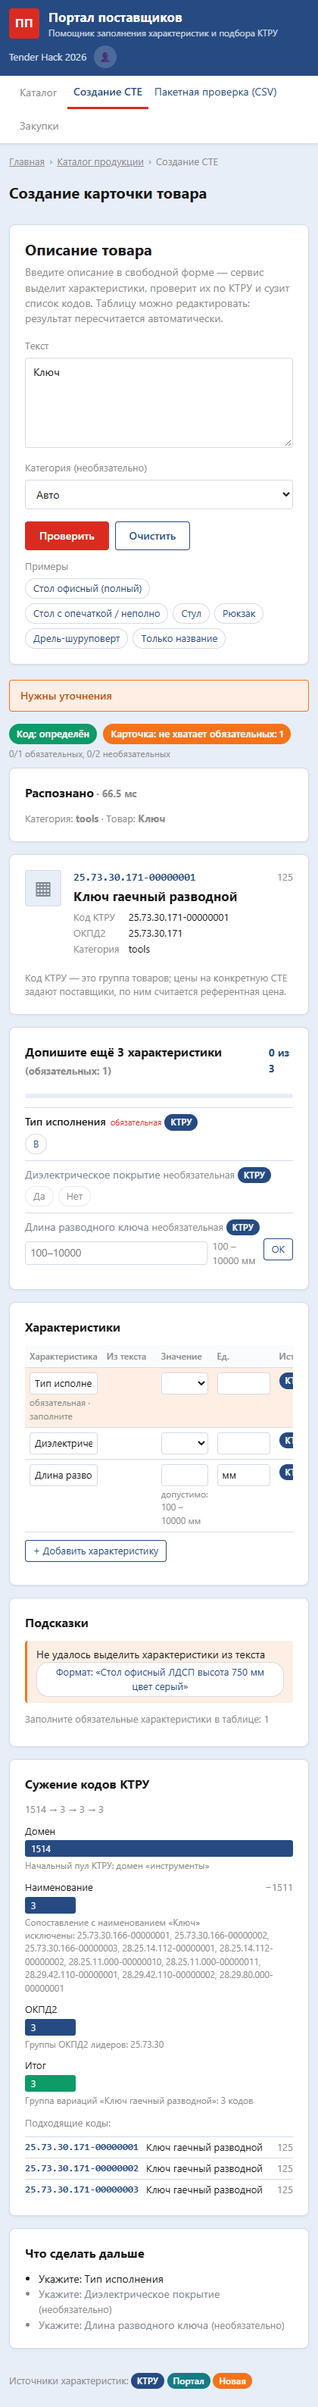
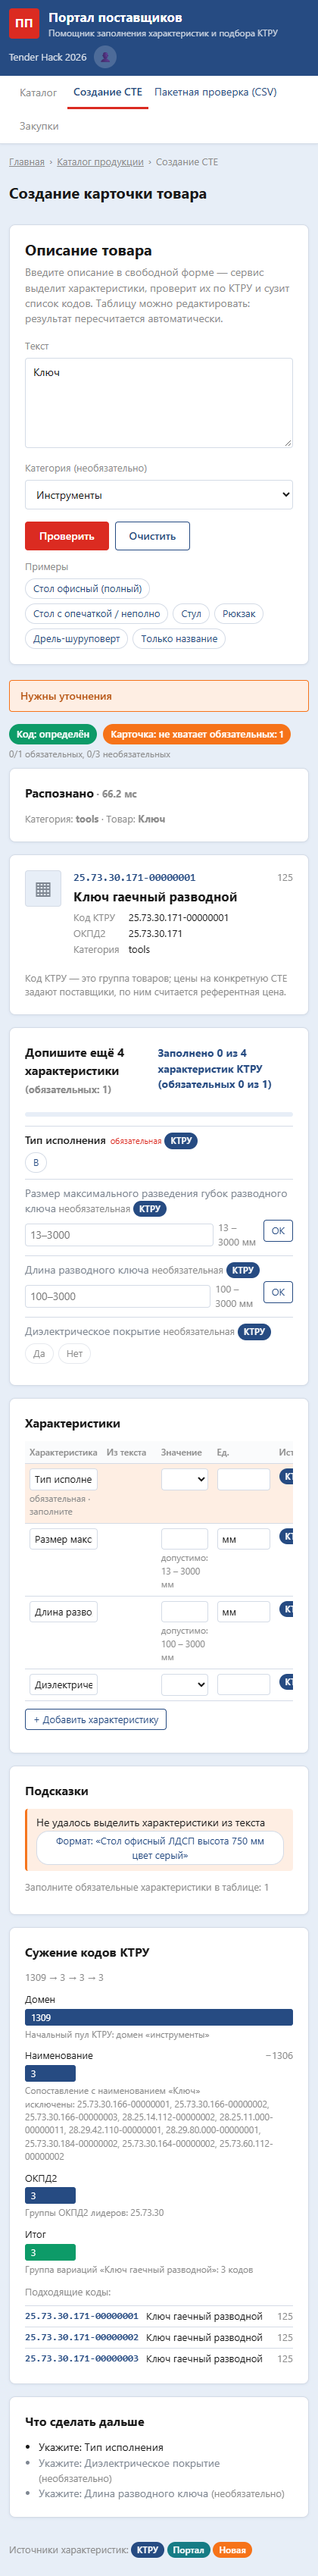
docs: retake screenshots on main c6a89cd, demo script funnels 1309 and plan B

diff --git a/docs/demo_script.md b/docs/demo_script.md
@@ -1,6 +1,6 @@
 # Сценарий демо (≈2 минуты)
 
-Шесть шагов: (a) чистый кейс FU19, (b) ошибка TO42, (c) неполный TO37 с блоком «Допишите», (c2) бессмысленная характеристика, (c3) товар не нашей категории, (d) пакетная проверка CSV. Кейсы из набора QA (`qa/cases.csv`). **Сценарий рассчитан на ядро `feature/core` 08fd895** (пакетный API, `out_of_scope`, `suspicious`, `fill`), все строки «Что видит зал» сняты вживую на этой сборке с индексом `catalog.db` (запрос `POST /api/analyze` с `domain_hint`). Скорость: медиана ~50 мс, в демо 100–200 мс, первый запрос до 0,5 с.
+Шесть шагов: (a) чистый кейс FU19, (b) ошибка TO42, (c) неполный TO37 с блоком «Допишите», (c2) бессмысленная характеристика, (c3) товар не нашей категории, (d) пакетная проверка CSV. Кейсы из набора QA (`qa/cases.csv`). **Сценарий рассчитан на ядро 08fd895, влитое в `main` c6a89cd** (пакетный API, `out_of_scope`, `suspicious`, `fill`), все строки «Что видит зал» сняты вживую на `main` c6a89cd с индексом `catalog.db` (запрос `POST /api/analyze` с `domain_hint`). Скорость: медиана ~50 мс, в демо 100–200 мс, первый запрос до 0,5 с.
 
 **Перед показом:** запустить `uvicorn app.main:app --port 8000`, открыть http://localhost:8000, вкладка «Создание СТЕ». Кнопка запуска называется **«Проверить»**. Держать под рукой `docs/demo_batch.csv` и папку `docs/screens/` (план Б).
 
@@ -109,10 +109,10 @@
 ## План Б, если живое демо не запустилось
 
 1. Не чиним на сцене дольше 15 секунд: «Покажу на снимках с той же версии».
-2. Открыть скриншоты из `docs/screens/`:
-   - `main_result.png` — кейс TO42: подсветка «27 м», «было → стало», подсказки «27 мм / 27 см», воронка 1514 → 3;
-   - `fill_block.png` — блок «Допишите» с чипами допустимых значений КТРУ;
-   - `batch_view.png` — пакетная проверка `demo_batch.csv` (снимок сделан на 11 строках, до ядра 08fd895: сводка 8 / 2 / 1 и 4 / 6 / 1).
+2. Открыть скриншоты из `docs/screens/` (все пересняты на `main` c6a89cd, есть и мобильные `mobile_*.png`):
+   - `main_result.png` — кейс TO42: подсветка «27 м», «было → стало», подсказки «27 мм / 27 см», воронка 1309 → 3 → 3 → 3 → 3;
+   - `fill_block.png` — кейс TO37: блок «Допишите ещё 4 характеристики (обязательных: 1)», счётчик «Заполнено 0 из 4…», чип «B»;
+   - `batch_view.png` — пакетная проверка `demo_batch.csv` 13 из 13: код 9 / 2 / 0 / не наша категория 2, карточки 4 / 8 / 1, режим «потоковый API».
 3. Те же реплики ведущего, что ниже; цифры не меняются.
 4. Если упал только пакетный режим — показать `batch_view.png`, остальное вживую.
 
